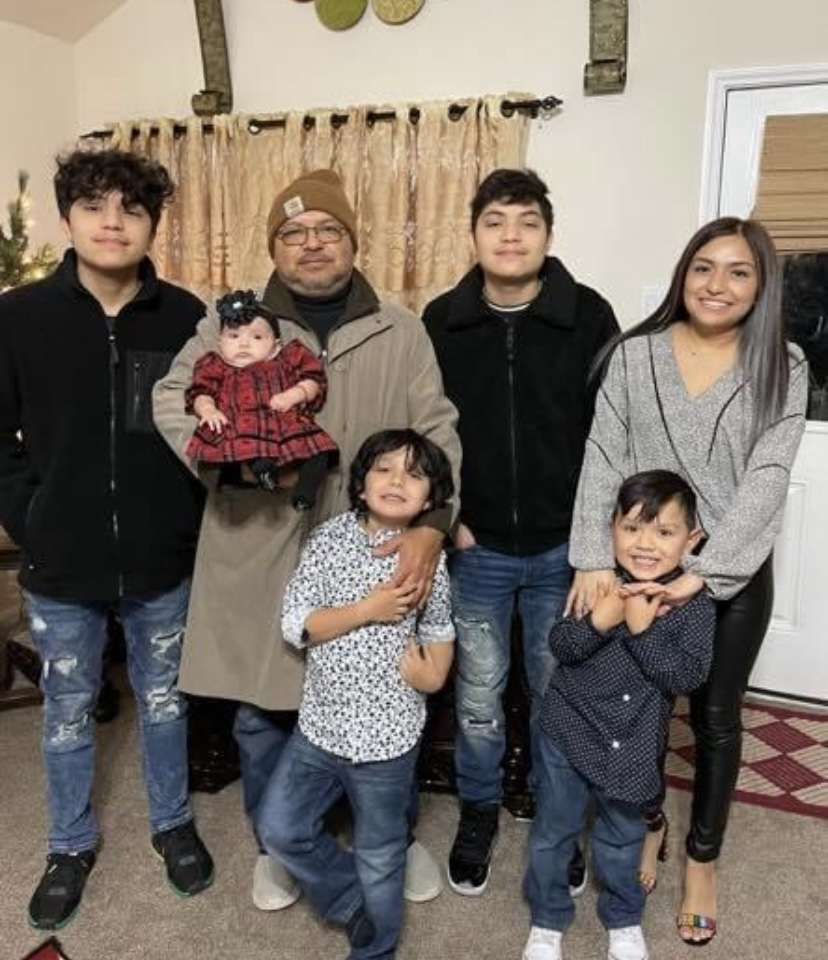
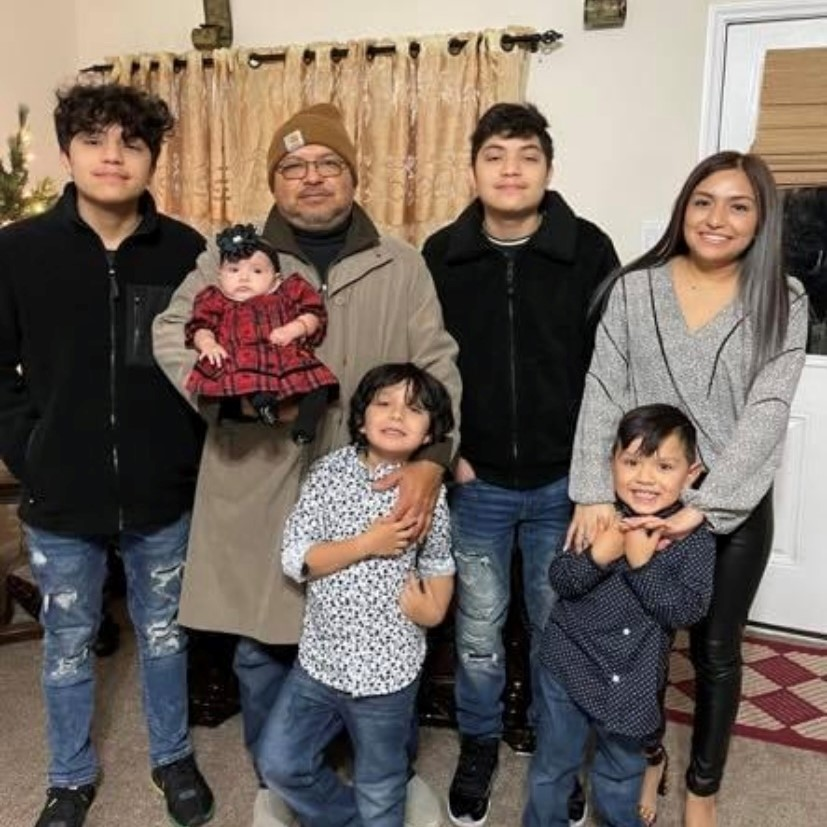
updated the schedule a visit button to match each page

diff --git a/aboutus.html b/aboutus.html
@@ -33,12 +33,14 @@
                     <a href="index.html"><img class="img-fluid" src="img/logo.png"/></a>
                 </div>    
                 <div class="col">
-                        <h1 class="display-4">State Code Electric</h1>
-                        <h3> Call Us At:<a href="tel:+11234567890" role="button" class="btn btn-link"><i class="fa fa-phone fa-lg"></i> 1-123-456-7890</a></h3>
-                        <h4>Se habla Espanol!</h4>
+                    <h1 class="display-4">State Code Electric</h1>
+                    <h3> Call Us At:<a href="tel:+11234567890" role="button" class="btn btn-link"><i class="fa fa-phone fa-lg"></i> 1-123-456-7890</a></h3>
+                    <h4>Se habla Espanol!</h4>
                 </div>
                 <div class="col-md-4 col-xl-2 mt-4">
-                    <a id="reserveButton" class="btn btn-lg btn-primary text-nowrap" role="button">Schedule Appointment!</a>
+                    <div style = "position:relative; left:60px; top:-40px;"></div>
+                        <a id="reserveButton" class="btn btn-lg btn-primary text-nowrap" role="button">Schedule a Visit!</a>
+                    </div>
                 </div>     
             </div>
         </div>
@@ -72,13 +74,13 @@
                     </ol>
                     <div class="carousel-inner">
                         <div class="carousel-item active">
-                            <img class="d-block w-100" src="img/IMG_E2394.JPG" alt="family" width="600" height="600" >
+                            <img class="d-block w-100" src="img/IMG_E2394.JPG" alt="family">
                         </div>
                         <div class="carousel-item">
-                            <img class="d-block w-100" src="img/IMG_E2395.JPG" alt="family2" width="600" height="600">
+                            <img class="d-block w-100" src="img/IMG_E2395.JPG" alt="family2">
                         </div>
                         <div class="carousel-item">
-                            <img class="d-block w-100" src="img/IMG_E2397 (1).JPG" alt="family" width="600" height="600" >
+                            <img class="d-block w-100" src="img/IMG_E2397 (1).JPG" alt="family">
                         </div>
                     </div>
                     <a class="carousel-control-prev" href="#aboutusCarousel" role="button" data-slide="prev">

diff --git a/index.html b/index.html
@@ -32,14 +32,14 @@
                     <a href="#"><img class="img-fluid" src="img/logo.png"/></a>
                 </div>    
                 <div class="col">
-                        <h1 class="display-4">State Code Electric</h1>
-                        <h3> Call Us At:<a href="tel:+11234567890" role="button" class="btn btn-link"><i class="fa fa-phone fa-lg"></i> 1-123-456-7890</a></h3>
-                        <h4>Se habla Espanol!</h4>
+                    <h1 class="display-4">State Code Electric</h1>
+                    <h3> Call Us At:<a href="tel:+11234567890" role="button" class="btn btn-link"><i class="fa fa-phone fa-lg"></i> 1-123-456-7890</a></h3>
+                    <h4>Se habla Espanol!</h4>
                 </div>
                 <div class="col-md-4 col-xl-2 mt-4">
                     <div style = "position:relative; left:60px; top:-40px;"></div>
                         <a id="reserveButton" class="btn btn-lg btn-primary text-nowrap" role="button">Schedule a Visit!</a>
-                </div>
+                    </div>
                 </div>     
             </div>
         </div>
@@ -63,7 +63,7 @@
     </nav>
 
     <!--Our paragraph about the company or mission statement goes here-->
-    <div class="container">
+    <div class="container-fluid">
         <div class="row row-content">
             <div class="col-md-8 mx-auto">
                 <div id="homeCarousel" class="carousel slide" data-ride="carousel">

diff --git a/gallery.html b/gallery.html
@@ -32,13 +32,13 @@
                     <a href="index.html"><img class="img-fluid" src="img/logo.png"/></a>
                 </div>    
                 <div class="col">
-                        <h1 class="display-4">State Code Electric</h1>
-                        <h3> Call Us At:<a href="tel:+11234567890" role="button" class="btn btn-link"><i class="fa fa-phone fa-lg"></i> 1-123-456-7890</a></h3>
-                        <h4>Se habla Espanol!</h4>
+                    <h1 class="display-4">State Code Electric</h1>
+                    <h3> Call Us At:<a href="tel:+11234567890" role="button" class="btn btn-link"><i class="fa fa-phone fa-lg"></i> 1-123-456-7890</a></h3>
+                    <h4>Se habla Espanol!</h4>
                 </div>
                 <div class="col-md-4 col-xl-2 mt-4">
-                    <div style = "position:relative; left:60px; top:-40px;">
-                        <a id="reserveButton" class="btn btn-lg btn-primary text-nowrap" role="button">Schedule Appointment!</a>
+                    <div style = "position:relative; left:60px; top:-40px;"></div>
+                        <a id="reserveButton" class="btn btn-lg btn-primary text-nowrap" role="button">Schedule a Visit!</a>
                     </div>
                 </div>     
             </div>

diff --git a/contactus.html b/contactus.html
@@ -32,13 +32,15 @@
                     <a href="index.html"><img class="img-fluid" src="img/logo.png"/></a>
                 </div>    
                 <div class="col">
-                        <h1 class="display-4">State Code Electric</h1>
-                        <h3> Call Us At:<a href="tel:+11234567890" role="button" class="btn btn-link"><i class="fa fa-phone fa-lg"></i> 1-123-456-7890</a></h3>
-                        <h4>Se habla Espanol!</h4>
+                    <h1 class="display-4">State Code Electric</h1>
+                    <h3> Call Us At:<a href="tel:+11234567890" role="button" class="btn btn-link"><i class="fa fa-phone fa-lg"></i> 1-123-456-7890</a></h3>
+                    <h4>Se habla Espanol!</h4>
                 </div>
                 <div class="col-md-4 col-xl-2 mt-4">
-                    <a id="reserveButton" class="btn btn-lg btn-primary text-nowrap" role="button">Schedule Appointment!</a>
-                </div>     
+                    <div style = "position:relative; left:60px; top:-40px;"></div>
+                        <a id="reserveButton" class="btn btn-lg btn-primary text-nowrap" role="button">Schedule a Visit!</a>
+                    </div>
+                </div>    
             </div>
         </div>
     </header>
